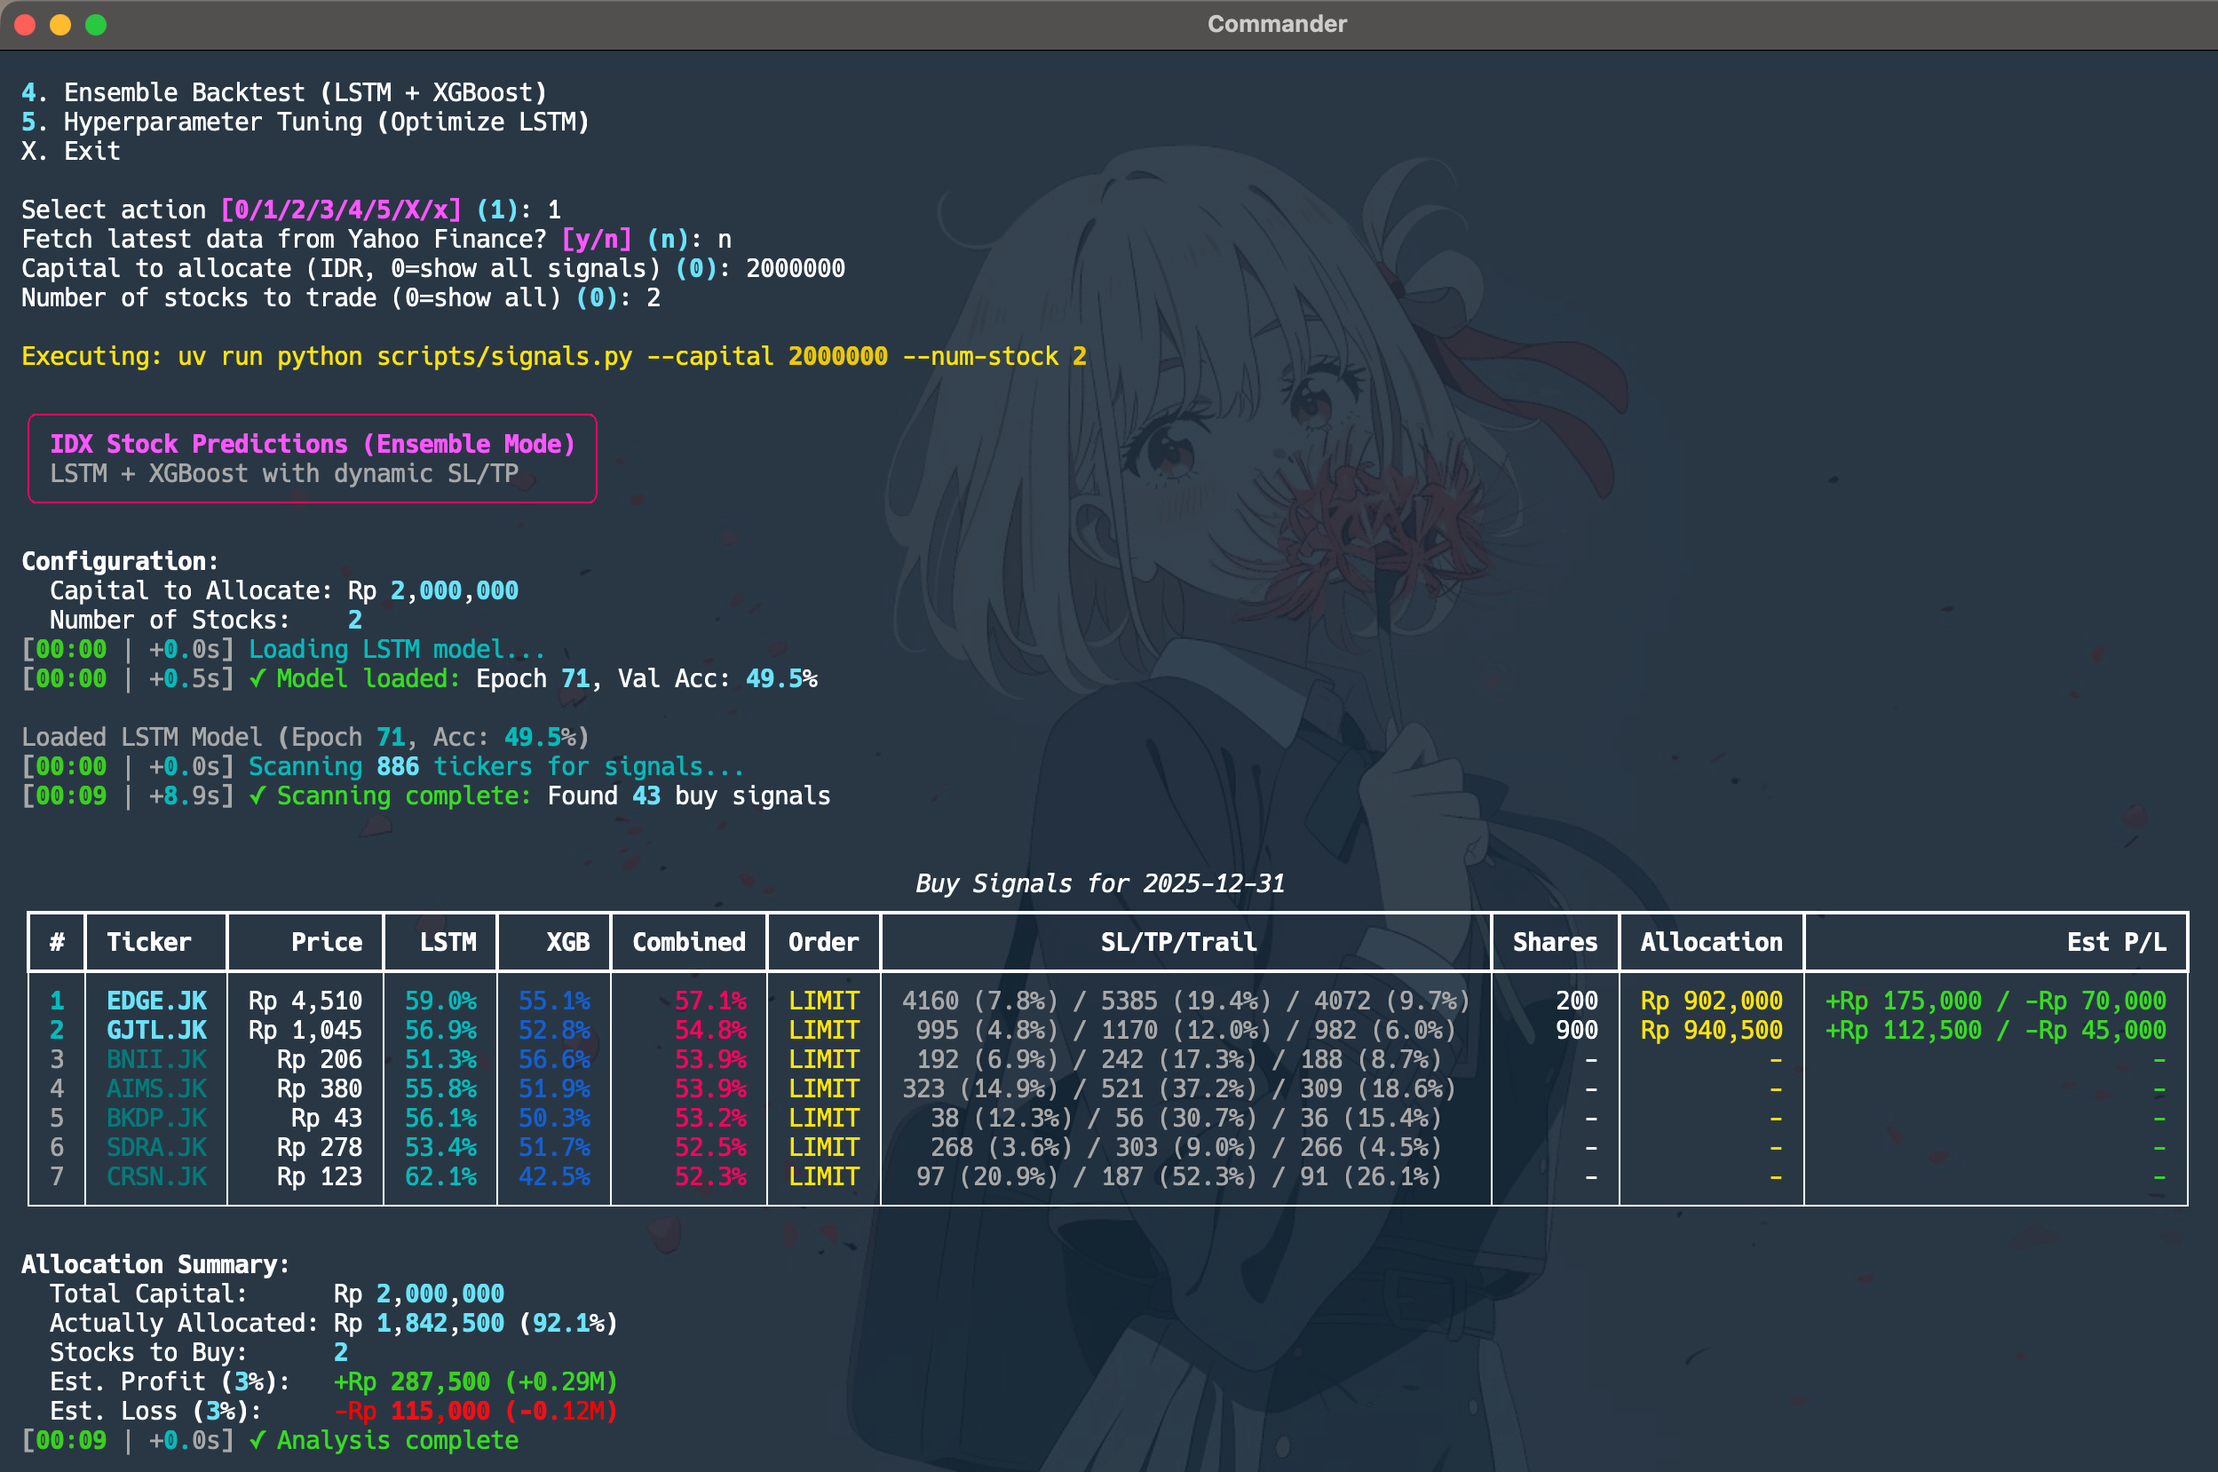
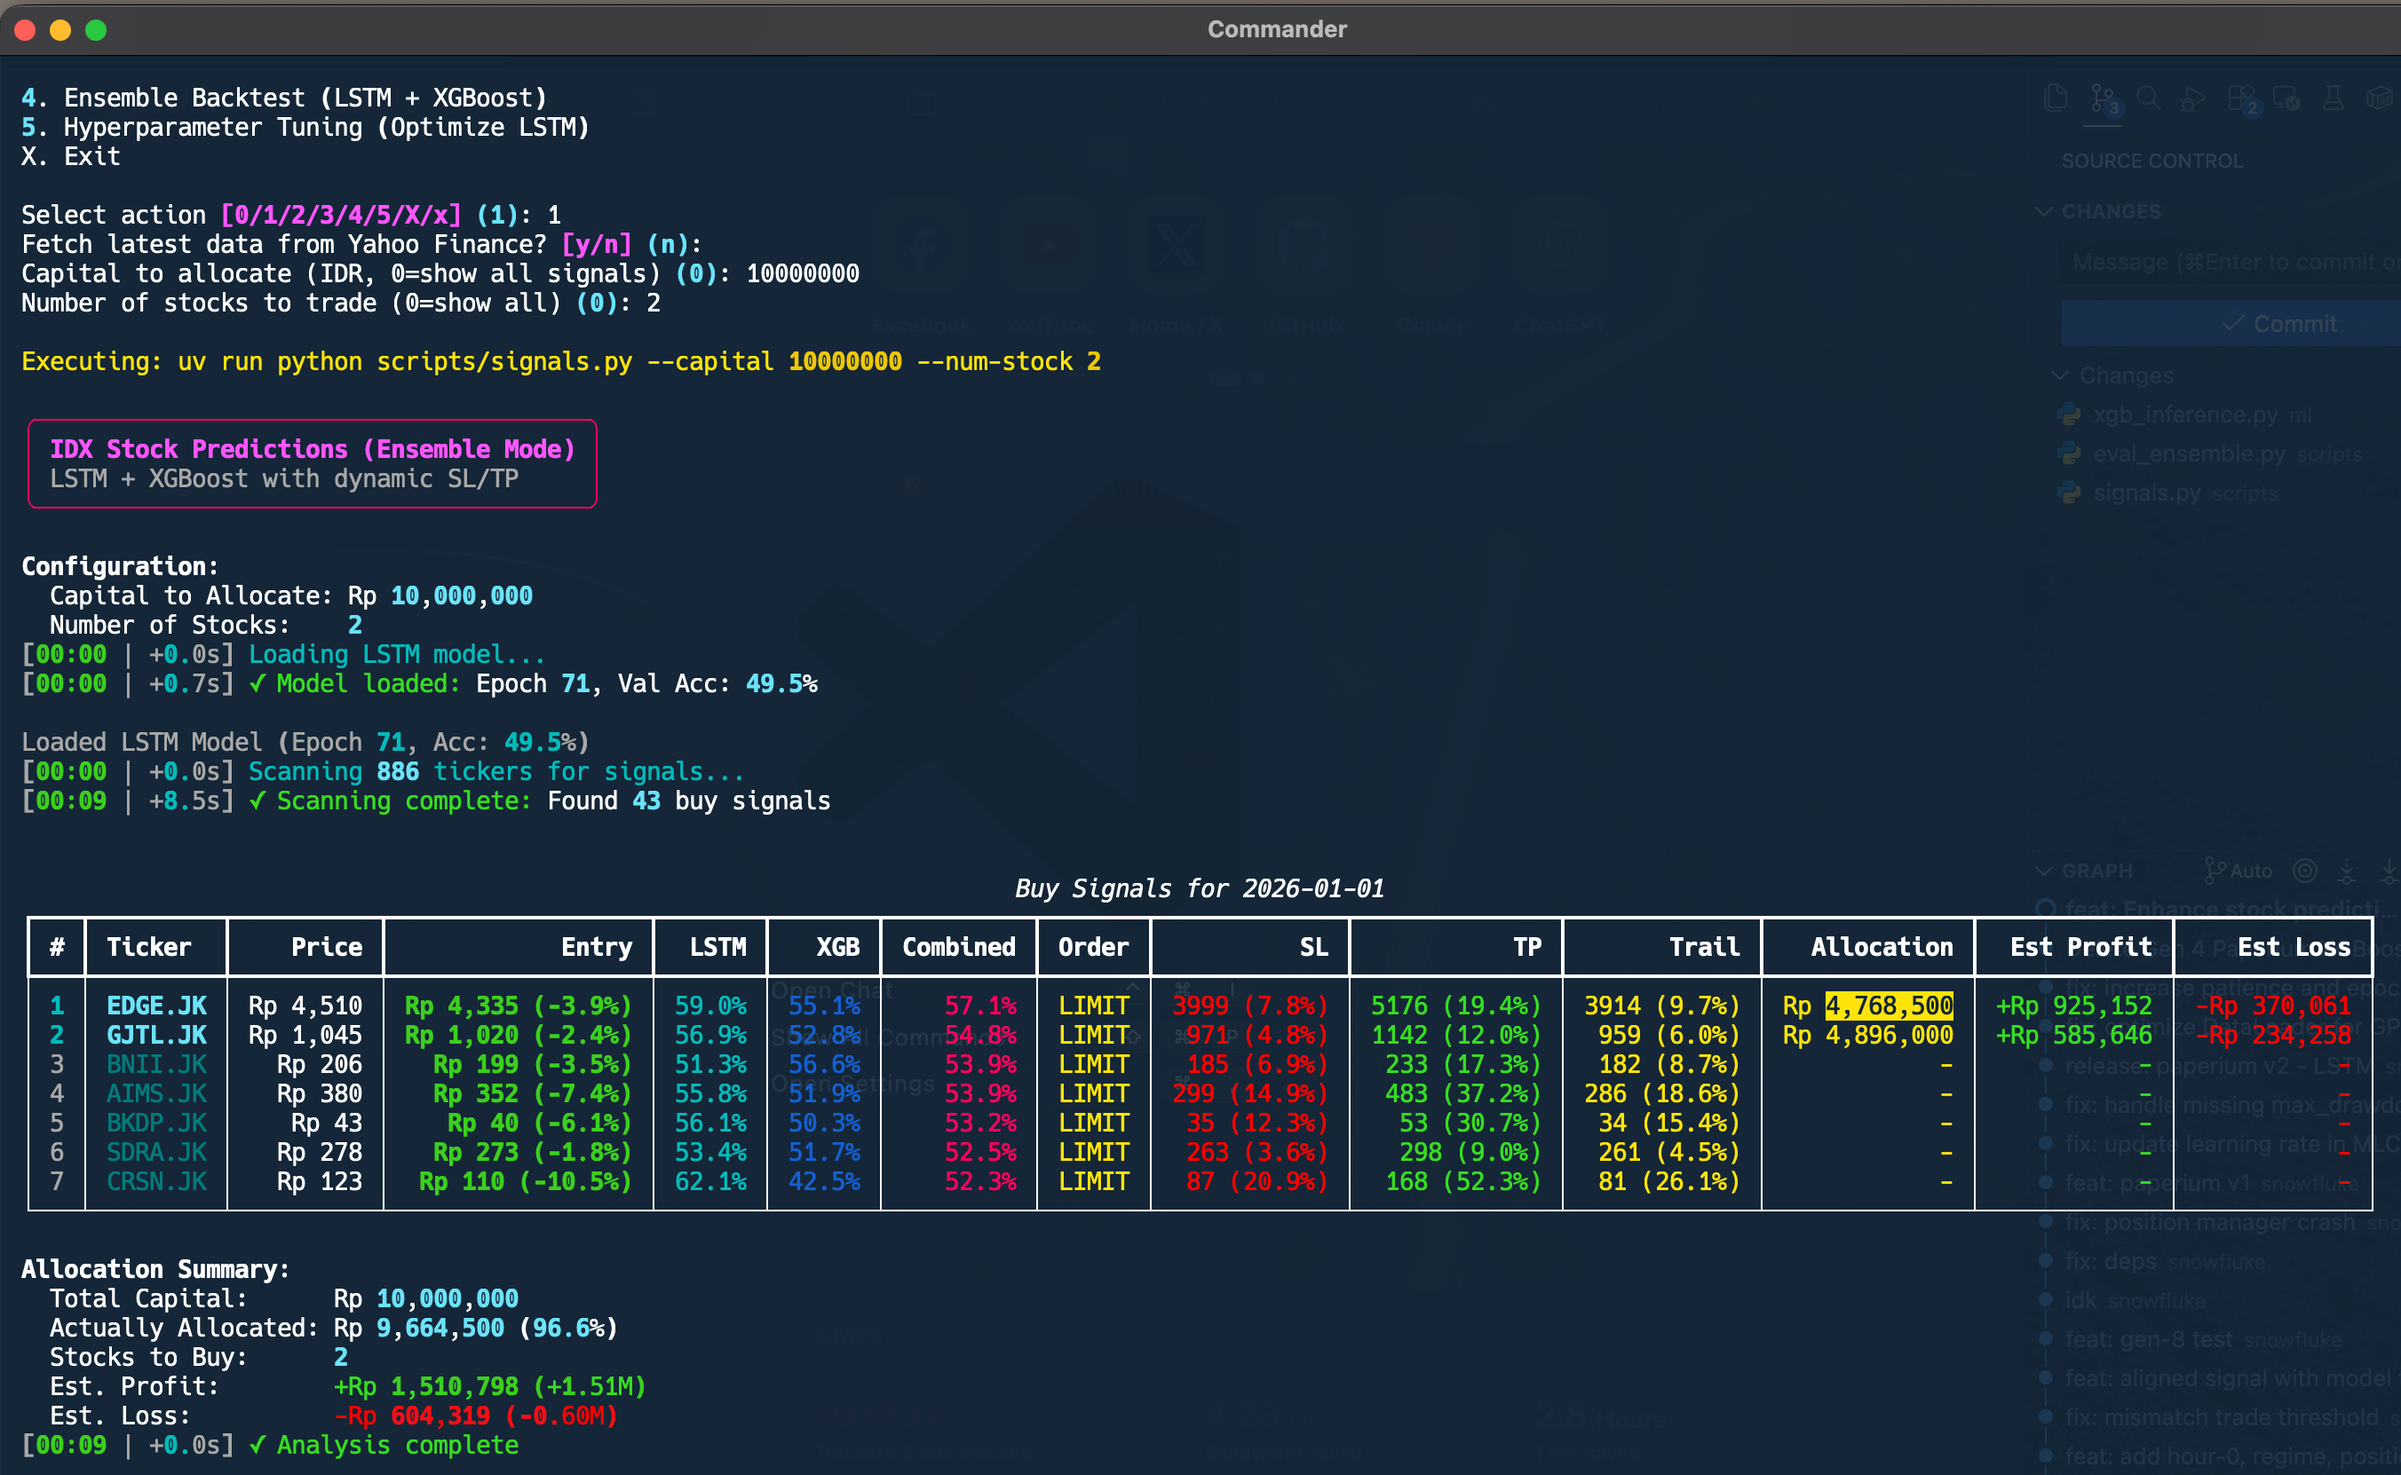
feat: Add entry percentage to XGBoost predictions and adjust order calculations

diff --git a/scripts/signals.py b/scripts/signals.py
@@ -175,20 +175,25 @@ def main():
                     # Combine scores (average)
                     combined_score = (lstm_prob + xgb_conf) / 2.0
 
-                    # Use XGBoost's dynamic SL/TP
-                    sl_price = price * (1 - xgb_result['sl_pct'])
-                    tp_price = price * (1 + xgb_result['tp_pct'])
-                    trail_price = price * (1 - xgb_result['trail_pct'])
+                    # Calculate entry price (for limit orders)
+                    entry_price = price * (1 - xgb_result['entry_pct'])
+
+                    # Use XGBoost's dynamic SL/TP (from entry price)
+                    sl_price = entry_price * (1 - xgb_result['sl_pct'])
+                    tp_price = entry_price * (1 + xgb_result['tp_pct'])
+                    trail_price = entry_price * (1 - xgb_result['trail_pct'])
 
                     signals.append({
                         'Ticker': ticker,
                         'Price': price,
+                        'Entry': entry_price,
                         'LSTM_Conf': lstm_prob,
                         'XGB_Conf': xgb_conf,
                         'Conf': combined_score,
                         'SL': sl_price,
                         'TP': tp_price,
                         'Trail': trail_price,
+                        'Entry_pct': xgb_result['entry_pct'],
                         'SL_pct': xgb_result['sl_pct'],
                         'TP_pct': xgb_result['tp_pct'],
                         'Trail_pct': xgb_result['trail_pct'],
@@ -196,16 +201,18 @@ def main():
                         'ATR_pct': xgb_result['atr_pct']
                     })
                 else:
-                    # LSTM only - use default 3% barriers
+                    # LSTM only - use default 3% barriers, market order
                     signals.append({
                         'Ticker': ticker,
                         'Price': price,
+                        'Entry': price,  # Market order - enter at current price
                         'LSTM_Conf': lstm_prob,
                         'XGB_Conf': None,
                         'Conf': lstm_prob,
                         'SL': price * (1 - config.ml.tbl_barrier),
                         'TP': price * (1 + config.ml.tbl_barrier),
                         'Trail': None,
+                        'Entry_pct': 0.0,
                         'SL_pct': config.ml.tbl_barrier,
                         'TP_pct': config.ml.tbl_barrier,
                         'Trail_pct': None,
@@ -241,9 +248,9 @@ def main():
             weight = signal['Conf'] / total_confidence
             allocation = args.capital * weight
 
-            # Calculate shares (round to lots of 100)
-            shares = int(allocation / signal['Price'] / 100) * 100
-            actual_allocation = shares * signal['Price']
+            # Calculate shares (round to lots of 100) using ENTRY price
+            shares = int(allocation / signal['Entry'] / 100) * 100
+            actual_allocation = shares * signal['Entry']
 
             # Estimated P/L based on dynamic SL/TP (if ensemble) or TBL barriers
             if use_ensemble:
@@ -269,21 +276,25 @@ def main():
     table.add_column("#", justify="right", style="dim")
     table.add_column("Ticker", style="cyan")
     table.add_column("Price", justify="right")
+    table.add_column("Entry", justify="right", style="bold green")
 
     if use_ensemble:
         table.add_column("LSTM", justify="right", style="cyan")
         table.add_column("XGB", justify="right", style="blue")
         table.add_column("Combined", justify="right", style="magenta")
         table.add_column("Order", justify="center", style="yellow")
-        table.add_column("SL/TP/Trail", justify="center", style="dim")
+        table.add_column("SL", justify="right", style="red")
+        table.add_column("TP", justify="right", style="green")
+        table.add_column("Trail", justify="right", style="yellow")
     else:
         table.add_column("Conf", justify="right", style="magenta")
-        table.add_column("SL/TP", justify="center", style="dim")
+        table.add_column("SL", justify="right", style="red")
+        table.add_column("TP", justify="right", style="green")
 
     if has_allocation:
-        table.add_column("Shares", justify="right")
         table.add_column("Allocation", justify="right", style="yellow")
-        table.add_column("Est P/L", justify="right", style="green")
+        table.add_column("Est Profit", justify="right", style="green")
+        table.add_column("Est Loss", justify="right", style="red")
 
     for i, signal in enumerate(display_signals, 1):
         is_allocated = has_allocation and i <= args.num_stock
@@ -291,6 +302,9 @@ def main():
 
         # Price formatting
         price_str = f"Rp {signal['Price']:,.0f}"
+        entry_str = f"Rp {signal['Entry']:,.0f}"
+        if signal['Entry_pct'] > 0:
+            entry_str += f" (-{signal['Entry_pct']*100:.1f}%)"
 
         if use_ensemble:
             # Ensemble mode - show both scores
@@ -299,41 +313,45 @@ def main():
             combined_str = f"{signal['Conf']:.1%}"
             order_str = signal['OrderType']
 
-            # Dynamic SL/TP/Trail with percentages
-            sl_tp_trail_str = (
-                f"{signal['SL']:.0f} ({signal['SL_pct']*100:.1f}%) / "
-                f"{signal['TP']:.0f} ({signal['TP_pct']*100:.1f}%) / "
-                f"{signal['Trail']:.0f} ({signal['Trail_pct']*100:.1f}%)"
-            )
+            # Individual SL/TP/Trail columns with percentages
+            sl_str = f"{signal['SL']:.0f} ({signal['SL_pct']*100:.1f}%)"
+            tp_str = f"{signal['TP']:.0f} ({signal['TP_pct']*100:.1f}%)"
+            trail_str = f"{signal['Trail']:.0f} ({signal['Trail_pct']*100:.1f}%)"
 
             if has_allocation and is_allocated:
-                shares_str = f"{signal['Shares']:,}"
                 alloc_str = f"Rp {signal['Allocation']:,.0f}"
-                pl_str = f"+Rp {signal['Est_Profit']:,.0f} / -Rp {signal['Est_Loss']:,.0f}"
+                profit_str = f"+Rp {signal['Est_Profit']:,.0f}"
+                loss_str = f"-Rp {signal['Est_Loss']:,.0f}"
 
                 table.add_row(
                     f"[{rank_style}]{i}[/{rank_style}]",
                     f"[{rank_style}]{signal['Ticker']}[/{rank_style}]",
                     price_str,
+                    entry_str,
                     lstm_str,
                     xgb_str,
                     combined_str,
                     order_str,
-                    sl_tp_trail_str,
-                    shares_str,
+                    sl_str,
+                    tp_str,
+                    trail_str,
                     alloc_str,
-                    pl_str
+                    profit_str,
+                    loss_str
                 )
             elif has_allocation:
                 table.add_row(
                     f"[{rank_style}]{i}[/{rank_style}]",
                     f"[{rank_style}]{signal['Ticker']}[/{rank_style}]",
                     price_str,
+                    entry_str,
                     lstm_str,
                     xgb_str,
                     combined_str,
                     order_str,
-                    sl_tp_trail_str,
+                    sl_str,
+                    tp_str,
+                    trail_str,
                     "-", "-", "-"
                 )
             else:
@@ -341,39 +359,47 @@ def main():
                     f"{i}",
                     signal['Ticker'],
                     price_str,
+                    entry_str,
                     lstm_str,
                     xgb_str,
                     combined_str,
                     order_str,
-                    sl_tp_trail_str
+                    sl_str,
+                    tp_str,
+                    trail_str
                 )
         else:
             # LSTM only mode
             conf_str = f"{signal['Conf']:.1%}"
-            sl_tp_str = f"{signal['SL']:.0f} / {signal['TP']:.0f}"
+            sl_str = f"{signal['SL']:.0f}"
+            tp_str = f"{signal['TP']:.0f}"
 
             if has_allocation and is_allocated:
-                shares_str = f"{signal['Shares']:,}"
                 alloc_str = f"Rp {signal['Allocation']:,.0f}"
-                pl_str = f"+Rp {signal['Est_Profit']:,.0f} / -Rp {signal['Est_Loss']:,.0f}"
+                profit_str = f"+Rp {signal['Est_Profit']:,.0f}"
+                loss_str = f"-Rp {signal['Est_Loss']:,.0f}"
 
                 table.add_row(
                     f"[{rank_style}]{i}[/{rank_style}]",
                     f"[{rank_style}]{signal['Ticker']}[/{rank_style}]",
                     price_str,
+                    entry_str,
                     conf_str,
-                    sl_tp_str,
-                    shares_str,
+                    sl_str,
+                    tp_str,
                     alloc_str,
-                    pl_str
+                    profit_str,
+                    loss_str
                 )
             elif has_allocation:
                 table.add_row(
                     f"[{rank_style}]{i}[/{rank_style}]",
                     f"[{rank_style}]{signal['Ticker']}[/{rank_style}]",
                     price_str,
+                    entry_str,
                     conf_str,
-                    sl_tp_str,
+                    sl_str,
+                    tp_str,
                     "-", "-", "-"
                 )
             else:
@@ -381,8 +407,10 @@ def main():
                     f"{i}",
                     signal['Ticker'],
                     price_str,
+                    entry_str,
                     conf_str,
-                    sl_tp_str
+                    sl_str,
+                    tp_str
                 )
 
     console.print("\n")
@@ -398,8 +426,8 @@ def main():
         console.print(f"  Total Capital:      Rp {args.capital:,.0f}")
         console.print(f"  Actually Allocated: Rp {total_allocated:,.0f} ({total_allocated/args.capital*100:.1f}%)")
         console.print(f"  Stocks to Buy:      {len(signals_to_allocate)}")
-        console.print(f"  Est. Profit (3%):   [green]+Rp {total_est_profit:,.0f} (+{total_est_profit/1e6:.2f}M)[/green]")
-        console.print(f"  Est. Loss (3%):     [red]-Rp {total_est_loss:,.0f} (-{total_est_loss/1e6:.2f}M)[/red]")
+        console.print(f"  Est. Profit:        [green]+Rp {total_est_profit:,.0f} (+{total_est_profit/1e6:.2f}M)[/green]")
+        console.print(f"  Est. Loss:          [red]-Rp {total_est_loss:,.0f} (-{total_est_loss/1e6:.2f}M)[/red]")
 
     logger.log(f"[green]✓ Analysis complete[/green]")
 

diff --git a/scripts/eval_ensemble.py b/scripts/eval_ensemble.py
@@ -208,6 +208,7 @@ class EnsembleBacktest:
                     'sl_pct': xgb_result['sl_pct'],
                     'tp_pct': xgb_result['tp_pct'],
                     'trail_pct': xgb_result['trail_pct'],
+                    'entry_pct': xgb_result['entry_pct'],
                     'order_type': xgb_result['order_type']
                 })
 
@@ -220,31 +221,34 @@ class EnsembleBacktest:
 
     def open_position(self, signal, entry_date):
         """Open a new position."""
-        # Calculate position size
+        # Calculate entry price (limit order: below current price)
+        entry_price = signal['price'] * (1 - signal['entry_pct'])
+
+        # Calculate position size using entry price
         available_capital = self.capital - sum(p['entry_price'] * p['shares'] for p in self.positions)
         position_value = available_capital * self.position_size_pct
 
-        shares = int(position_value / signal['price'] / 100) * 100
+        shares = int(position_value / entry_price / 100) * 100
         if shares == 0:
             return False
 
-        actual_value = shares * signal['price']
+        actual_value = shares * entry_price
 
-        # Calculate SL/TP/Trail prices
-        sl_price = signal['price'] * (1 - signal['sl_pct'])
-        tp_price = signal['price'] * (1 + signal['tp_pct'])
-        trail_price = signal['price'] * (1 - signal['trail_pct'])
+        # Calculate SL/TP/Trail prices from entry price
+        sl_price = entry_price * (1 - signal['sl_pct'])
+        tp_price = entry_price * (1 + signal['tp_pct'])
+        trail_price = entry_price * (1 - signal['trail_pct'])
 
         position = {
             'ticker': signal['ticker'],
             'entry_date': entry_date,
-            'entry_price': signal['price'],
+            'entry_price': entry_price,
             'shares': shares,
             'sl_price': sl_price,
             'tp_price': tp_price,
             'trail_price': trail_price,
             'current_trail': trail_price,
-            'highest_price': signal['price'],
+            'highest_price': entry_price,
             'lstm_conf': signal['lstm_conf'],
             'xgb_conf': signal['xgb_conf'],
             'combined_score': signal['combined_score'],

diff --git a/ml/xgb_inference.py b/ml/xgb_inference.py
@@ -306,8 +306,11 @@ class XGBoostInference:
             # Limit order: moderate confidence (0.55-0.85)
             if confidence >= 0.85:
                 order_type = "MARKET"
+                entry_pct = 0.0  # Enter at market price
             else:
                 order_type = "LIMIT"
+                # Limit order: enter 1x ATR below current (conservative entry)
+                entry_pct = atr_pct * 1.0
 
             return {
                 'confidence': confidence,
@@ -318,7 +321,8 @@ class XGBoostInference:
                 'tp_mult': tp_mult,
                 'trail_mult': trail_mult,
                 'atr_pct': atr_pct,
-                'order_type': order_type
+                'order_type': order_type,
+                'entry_pct': entry_pct
             }
 
         except Exception as e:
